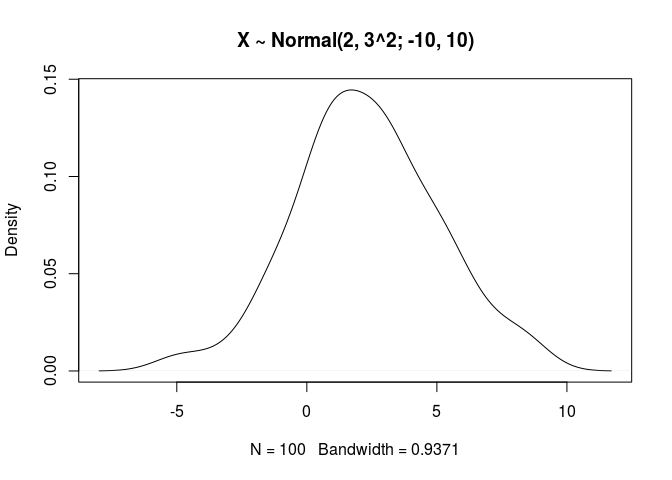
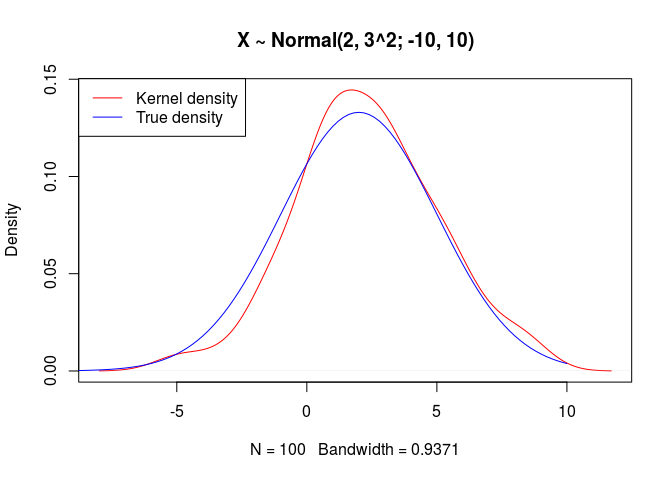
Moved some docco to a vignette

diff --git a/README.md b/README.md
@@ -13,13 +13,7 @@ The algorithm can sample from any univariate log concave densities. This is a la
 Example
 =======
 
-In this contrived example, we draw 1,000 variates from the truncated normal distribution Normal(2, 3^2; -10, 10), which has density function
-$$ f(x) \\propto I\_{|x| \\leq 10}(x)\\exp\\left\\{ -\\frac{1}{18}\\left(x - 2\\right)^2\\right\\}.$$
- The algorithm requires log density function. Assuming |*x*|≤10, we have
-$$ h(x) = \\log f(x) = -\\frac{1}{18}\\left(x - 2\\right)^2$$
- and its derivative
-$$ h'(x) = \\frac{d\\log f(x)}{dx} = -\\frac{x - 2}{9}.$$
- We first specify an R function that computes these values:
+In this contrived example, we draw 1,000 variates from the truncated normal distribution Normal(2, 3^2; -10, 10). We first specify an R function that computes the log density and its derivative:
 
 ``` r
 # log density and derivative function
@@ -30,14 +24,6 @@ h <- function(x) {
 }
 ```
 
-We can verify that *h*(*x*) is log concave by noticing that its second derivative *h*″(*x*)= − 1 is negative, a fact we can also check visually:
-
-``` r
-plot(Vectorize(function(x) h(x)[1]), -10, 14, ylab='log density', main='h(x)')
-```
-
-![](README-ploth-1.png)
-
 And now we call `adsample` to sample 1,000 variates. We need to provide two initial points within the support of *f* to seed the algorithm, and the bounds of its support.
 
 ``` r
@@ -45,7 +31,10 @@ library(adsample)
 set.seed(123)
 xs <- adsample(n = 100, log_dens = h, initialPoints = c(-1, 1), minRange = -10,
                maxRange = 10)
-plot(density(xs), 'X ~ Normal(2, 3^2; -10, 10)')
+plot(density(xs), 'X ~ Normal(2, 3^2; -10, 10)', col='red')
+true.dens <- function(x) dnorm(x, 2, 3)/(1-2*pnorm(-10, 2, 3))
+curve(true.dens, -10, 10, add=TRUE, col='blue')
+legend('topleft', c('Kernel density', 'True density'), col=c('red','blue'), lty=1)
 ```
 
 ![](README-sample1-1.png)
